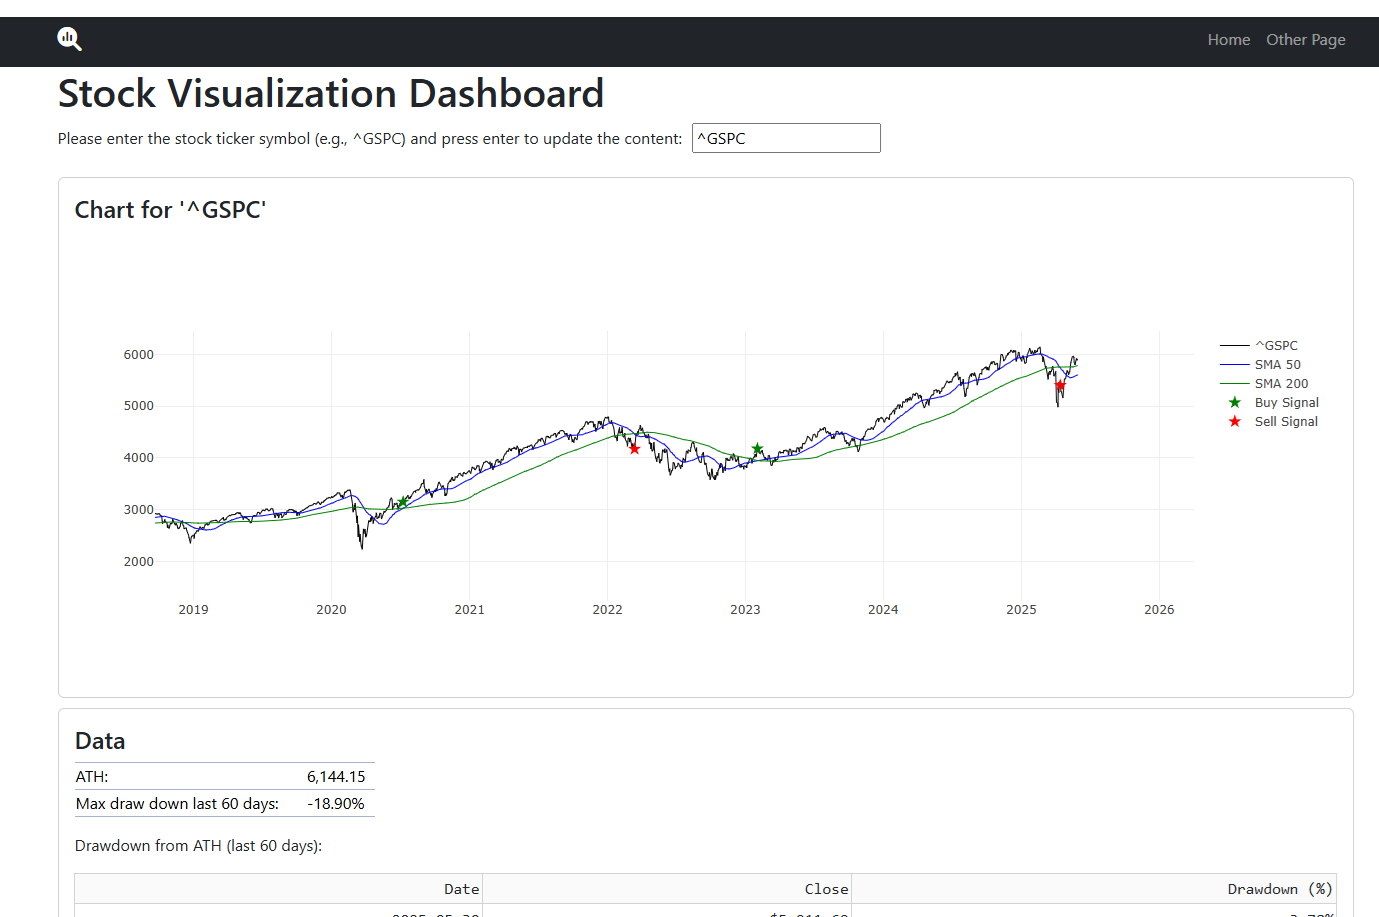
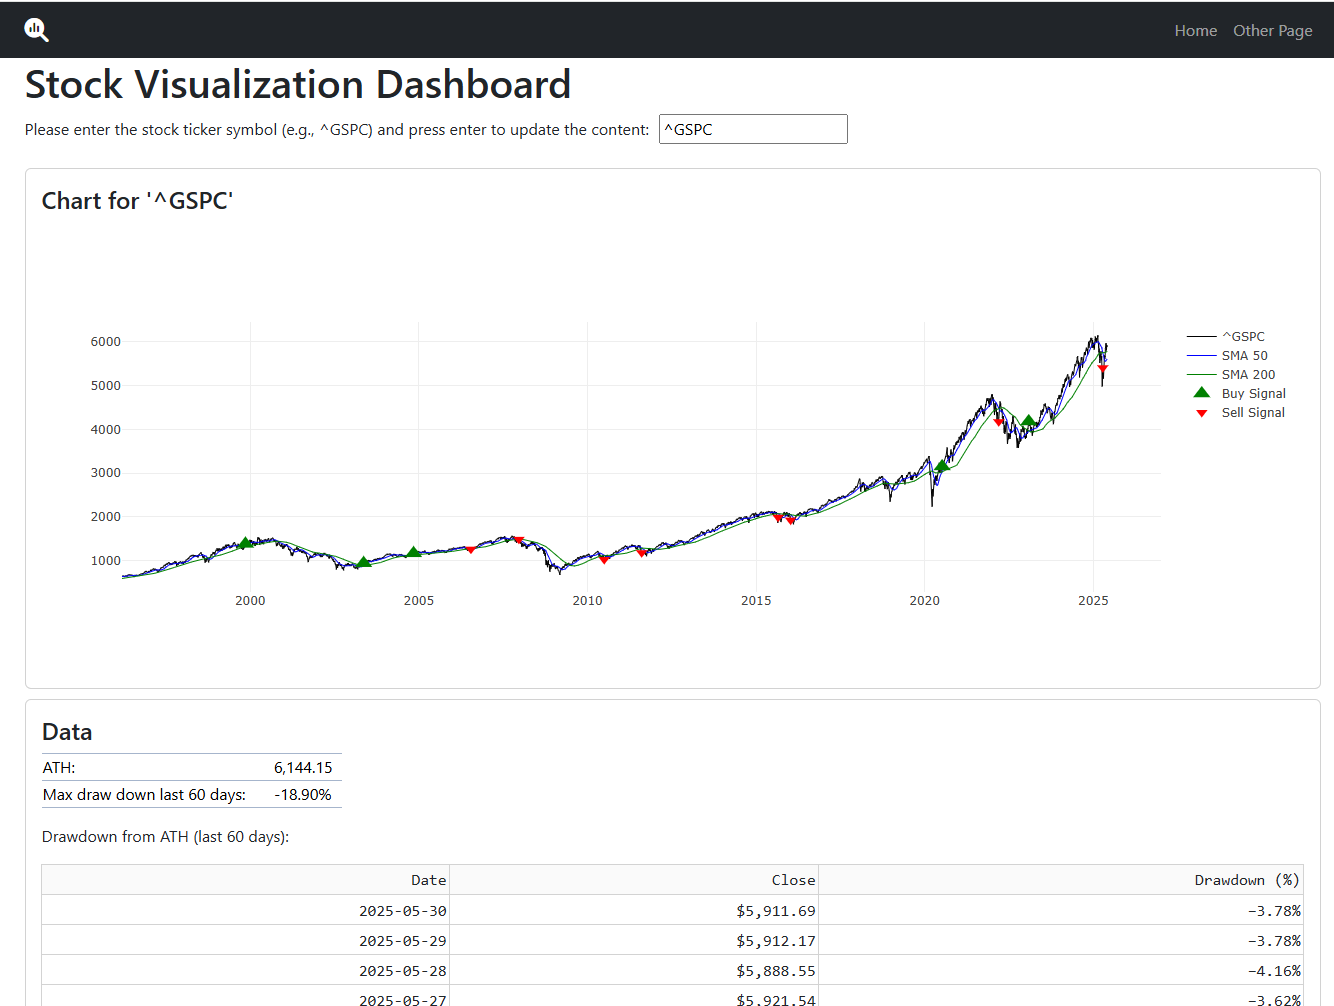
temporary bugfix

diff --git a/src/utils/trading_signals.py b/src/utils/trading_signals.py
@@ -9,8 +9,6 @@ from utils.constants import (
     MACD_LT_SIGNAL,
     MACD_SIGNAL,
     SMA_50,
-    SMA_50_GT_SMA_200_CO,
-    SMA_50_LT_SMA_200_CO,
     SMA_200,
 )
 
@@ -21,16 +19,28 @@ def add_indicators(df: pd.DataFrame) -> None:
     df.dropna(inplace=True)
 
     pd.options.mode.chained_assignment = None
-    df.loc[df[SMA_50] > df[SMA_200], SMA_50_GT_SMA_200_CO] = True
-    df[SMA_50_GT_SMA_200_CO].fillna(False, inplace=True)
-    df.loc[df[SMA_50] < df[SMA_200], SMA_50_LT_SMA_200_CO] = True
-    df[SMA_50_LT_SMA_200_CO].fillna(False, inplace=True)
+    # df.loc[df[SMA_50] > df[SMA_200], SMA_50_GT_SMA_200_CO] = True
+    # df[SMA_50_GT_SMA_200_CO].fillna(False, inplace=True)
+    # df.loc[df[SMA_50] < df[SMA_200], SMA_50_LT_SMA_200_CO] = True
+    # df[SMA_50_LT_SMA_200_CO].fillna(False, inplace=True)
 
-    df[SMA_50_GT_SMA_200_CO] = df[SMA_50_GT_SMA_200_CO].ne(df[SMA_50_GT_SMA_200_CO].shift())
-    df.loc[df[SMA_50_GT_SMA_200_CO] == False, SMA_50_GT_SMA_200_CO] = False
+    # df[SMA_50_GT_SMA_200_CO] = df[SMA_50_GT_SMA_200_CO].ne(df[SMA_50_GT_SMA_200_CO].shift())
+    # df.loc[df[SMA_50_GT_SMA_200_CO] == False, SMA_50_GT_SMA_200_CO] = False
 
-    df[SMA_50_LT_SMA_200_CO] = df[SMA_50_LT_SMA_200_CO].ne(df[SMA_50_LT_SMA_200_CO].shift())
-    df.loc[df[SMA_50_LT_SMA_200_CO] == False, SMA_50_LT_SMA_200_CO] = False
+    # df[SMA_50_LT_SMA_200_CO] = df[SMA_50_LT_SMA_200_CO].ne(df[SMA_50_LT_SMA_200_CO].shift())
+    # df.loc[df[SMA_50_LT_SMA_200_CO] == False, SMA_50_LT_SMA_200_CO] = False
+
+    # FIXME why is the code above not working?
+    df.loc[df["sma50"] > df["sma200"], "sma50gtsma200"] = True
+    df["sma50gtsma200"].fillna(False, inplace=True)
+    df.loc[df["sma50"] < df["sma200"], "sma50ltsma200"] = True
+    df["sma50ltsma200"].fillna(False, inplace=True)
+
+    df["sma50gtsma200co"] = df.sma50gtsma200.ne(df.sma50gtsma200.shift())
+    df.loc[df["sma50gtsma200"] == False, "sma50gtsma200co"] = False
+
+    df["sma50ltsma200co"] = df.sma50ltsma200.ne(df.sma50ltsma200.shift())
+    df.loc[df["sma50ltsma200"] == False, "sma50ltsma200co"] = False
 
     df[EMA_12] = df[CLOSE].ewm(span=12, adjust=False).mean()
     df[EMA_26] = df[CLOSE].ewm(span=26, adjust=False).mean()
